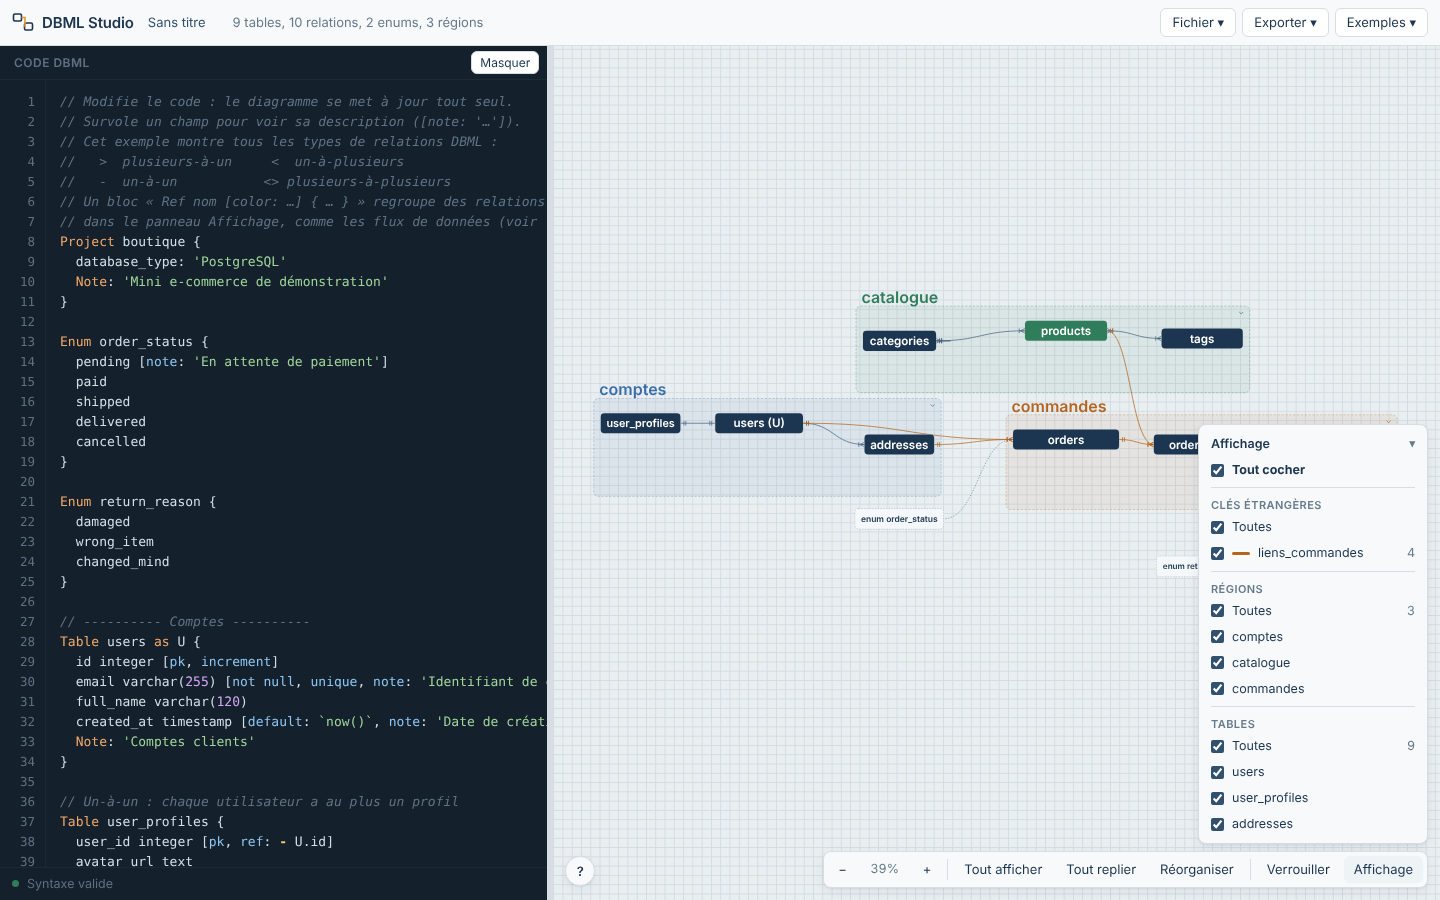
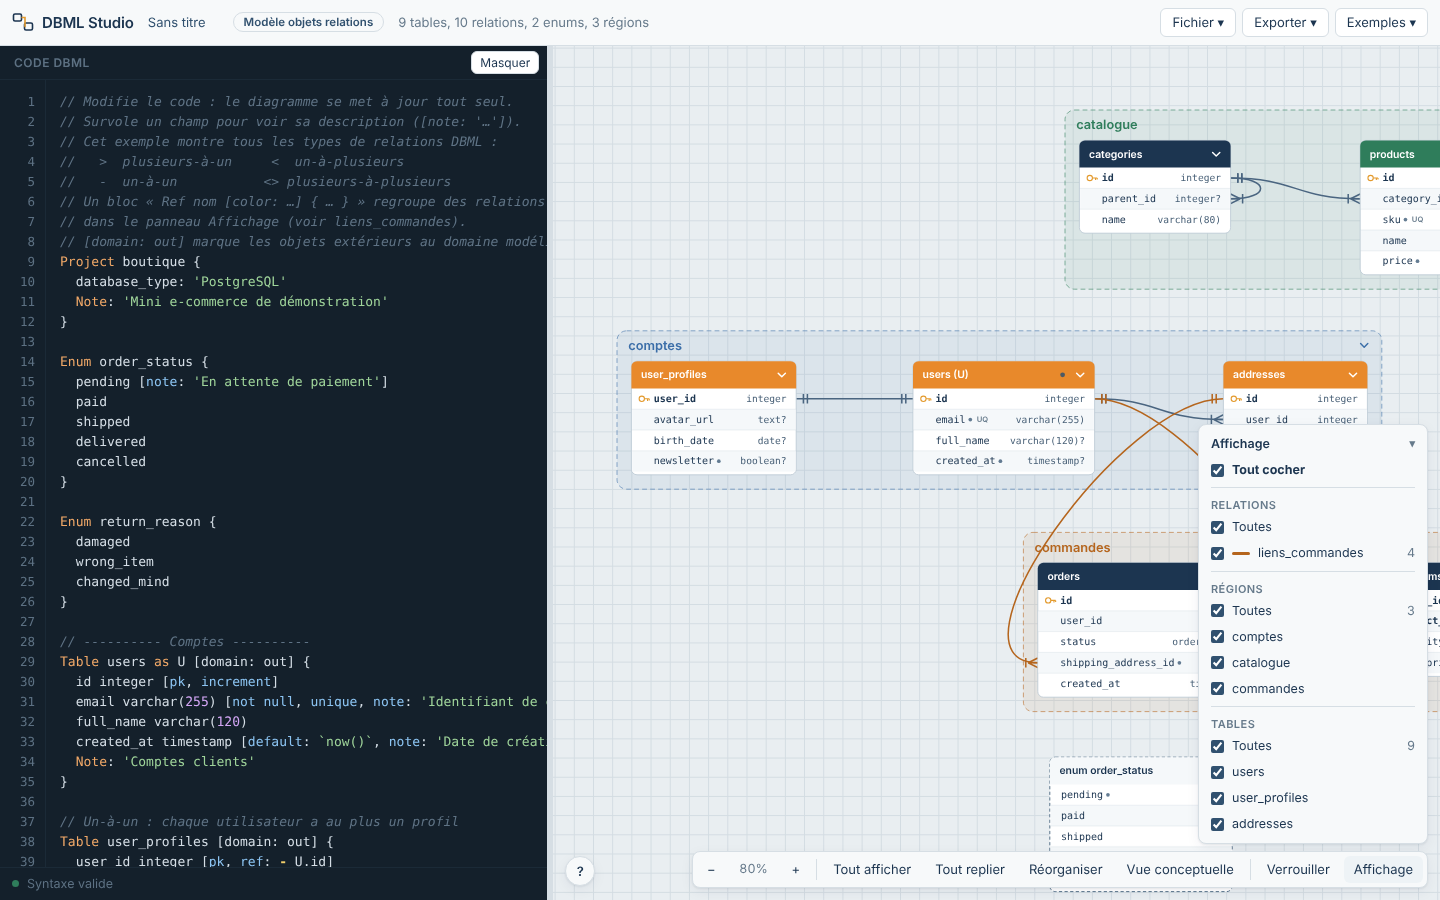
docs: update README and after screenshots for the ergonomics PR
Claude-Session: https://claude.ai/code/session_01Bzw3ehvgqE7Ksz96N4MvoS

diff --git a/README.md b/README.md
@@ -108,7 +108,7 @@ Le point orange à côté du nom du fichier reflète aussi les positions et repl
 - Dans Firefox et Safari, qui n'ont pas cette API, Enregistrer télécharge une copie `.dbml`.
 - Le nom du fichier s'affiche à côté du titre ; un point orange signale des modifications non enregistrées dans un fichier. Le texte reste de toute façon sauvegardé dans le navigateur.
 
-**Exporter ▾ › Image du schéma** : PNG, JPG, WebP (résolution 1×, 2× ou 3×, plafonnée à 12 000 px de côté) ou SVG vectoriel ; thème clair ou sombre ; fond coloré ou transparent (sauf JPG). L'image contient tout le diagramme dans son état actuel (tables et régions repliées comprises), sans la sélection ni les boutons d'interface.
+**Exporter ▾ › Image du schéma** : PNG, JPG, WebP (résolution 1×, 2× ou 3×, plafonnée à 12 000 px de côté) ou SVG vectoriel ; thème clair ou sombre ; fond coloré ou transparent (sauf JPG). L'image contient tout le diagramme tel que le canvas l'affiche au zoom courant (tables et régions repliées, éléments masqués, bandes de colonnes, et en vue conceptuelle entités agrandies et cardinalités masquées comprises), sans la sélection, le survol ni les boutons d'interface.
 
 Les images raster utilisent les polices du système : un navigateur ne charge pas les polices web à l'intérieur d'une image SVG convertie. Le SVG garde la déclaration IBM Plex, appliquée si la police est installée.
 
@@ -141,6 +141,8 @@ Un point à droite du nom signale un champ décrit. Le survol d'un champ affiche
 
 **Verrouillage** : le bouton « Verrouiller » de la barre d'outils ouvre un panneau classé par type (Régions, Tables, Énumérations), chaque section avec sa case « Toutes », plus une case « Tout verrouiller » en tête pour l'ensemble. Un élément verrouillé (glyphe cadenas) ne peut plus être déplacé, mais reste cliquable pour la sélection et le focus éditeur. Cliquer-glisser sur un élément verrouillé fait défiler la vue (comme sur le fond du canvas) au lieu de ne rien faire. Verrouiller une région verrouille aussi ses membres, repliée ou non.
 
+**Aide et survol** : le bouton « ? » en bas à gauche du canvas ouvre un rappel des gestes (il se ferme d'un clic ailleurs). Survoler une table (souris seulement) met ses relations en évidence et atténue le reste, en vue détaillée comme en vue conceptuelle. L'éditeur a un en-tête « Code DBML » avec le bouton « Masquer ».
+
 **Défilement automatique** : glisser une table ou une région près du bord du canvas fait défiler la vue pour suivre le déplacement, sans à-coup au relâchement.
 
 **Sélection multiple** : Maj+glisser sur le fond du canvas dessine un cadre — tout ce qu'il touche est sélectionné (contour bleu). Maj+clic ajoute ou retire un élément de la sélection un par un. Glisser ensuite l'un des éléments sélectionnés déplace tout le groupe ; les éléments verrouillés de la sélection restent en place pendant que les autres suivent. Un clic simple ailleurs, ou Échap, efface la sélection.
@@ -152,7 +154,7 @@ Un point à droite du nom signale un champ décrit. Le survol d'un champ affiche
 - **Flux de données** : une case « Toutes », puis une ligne par `Mapping` avec sa couleur et son nombre de correspondances (section absente s'il n'y a aucun `Mapping`)
 - **Régions**, **Tables**, **Énumérations** : chaque élément individuellement, plus une case « Toutes » par catégorie
 
-Une case « Tout afficher » en tête agit sur l'ensemble. Décocher un élément le retire entièrement du diagramme, avec ses relations ; masquer une région masque aussi ses membres, repliée ou non. L'état est mémorisé. Ce panneau et celui du verrouillage se ferment mutuellement pour ne pas se superposer.
+Une case « Tout cocher » en tête agit sur l'ensemble. Le panneau défile sur un petit écran. Décocher un élément le retire entièrement du diagramme, avec ses relations ; masquer une région masque aussi ses membres, repliée ou non. L'état est mémorisé. Ce panneau et celui du verrouillage se ferment mutuellement pour ne pas se superposer.
 
 **Couleurs** : survoler l'en-tête d'une table ou le nom d'une région affiche une pastille cliquable, qui ouvre un sélecteur de couleur natif accompagné d'une palette des couleurs déjà utilisées dans le fichier et d'un bouton « Réinitialiser ». Le choix patche directement `headercolor:`/`color:` dans le texte source.
 
@@ -185,7 +187,7 @@ Réservée aux **modèles objets relations** (le bouton est absent d'un schéma 
 - **Disposition propre** : la vue conceptuelle a ses propres positions (calculées automatiquement au premier affichage, déplaçables ; « Réorganiser » les recalcule). Elles sont enregistrées dans le fichier avec celles de la vue détaillée, sans les modifier. Régions, verrouillage et masquage s'y appliquent comme d'habitude.
 - **Domaine fonctionnel** : le paramètre de table `[domain: in]` ou `[domain: out]` (aussi `domaine: interne | externe`) distingue les objets du domaine modélisé de ceux qui sont à l'extérieur mais reliés. Dès qu'une table le déclare, la vue conceptuelle affiche les tables du domaine avec un contour bleu et un fond blanc (c'est aussi le cas des tables sans paramètre), et les tables hors domaine avec un fond orange sans contour. Sans aucun paramètre `domain`, l'affichage reste inchangé. Le paramètre est retiré du DBML standard à la copie ; l'export image reprend ces styles.
 - **Au dézoom** : sous 100 %, entités, symboles et traits sont agrandis d'un facteur `(1/zoom)^0,5` (constante `CONCEPT_EXP` dans `src/index.html`) : ils rétrécissent moins vite que l'espacement, donc les noms restent lisibles bien plus longtemps. Sous 25 %, les chiffres de cardinalité sont masqués pour alléger. Très dézoomé, des entités voisines peuvent se toucher : c'est le prix de la lisibilité.
-- **Export d'image** : toujours produit à 100 %, comme dans la vue détaillée.
+- **Export d'image** : identique au canvas au zoom courant ; au dézoom, les entités sont agrandies du même facteur et rien n'est rogné. En vue détaillée, le rendu ne dépend pas du zoom.
 
 ## Extension `Mapping`
 
